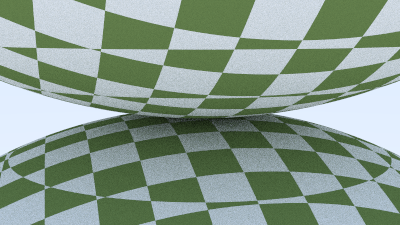
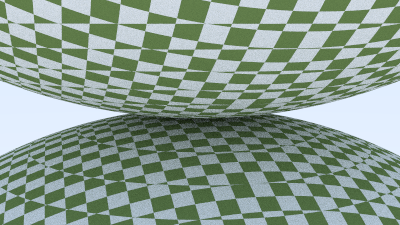
update

diff --git a/include/texture.h b/include/texture.h
@@ -28,10 +28,11 @@ class checker_texture : public texture {
     public:
         checker_texture(double _scale, shared_ptr<texture> _even, shared_ptr<texture> _odd)
             : inv_scale(1.0/_scale), even(_even), odd(_odd) {}
-        checker_texture(double _scale, color c1, color c2): inv_scale(1.0/_scale) {
-            even = make_shared<solid_color>(c1);
-            odd = make_shared<solid_color>(c2);
-        }
+        checker_texture(double _scale, color c1, color c2)
+            : inv_scale(1.0/_scale),
+            even(make_shared<solid_color>(c1)),
+            odd(make_shared<solid_color>(c2))
+        {}
 
         color value(double u, double v, const point3& p) const override {
             auto xFloor = static_cast<int>(std::floor(inv_scale * p.x()));

diff --git a/src/main.cc b/src/main.cc
@@ -91,7 +91,7 @@ void random_spheres() {
 void two_spheres() {
     hittable_list world;
 
-    auto checker = make_shared<checker_texture>(0.8, color(.2, .3, .1), color(.9, .9, .9));
+    auto checker = make_shared<checker_texture>(0.32, color(.2, .3, .1), color(.9, .9, .9));
 
     world.add(make_shared<sphere>(point3(0,-10, 0), 10, make_shared<lambertian>(checker)));
     world.add(make_shared<sphere>(point3(0, 10, 0), 10, make_shared<lambertian>(checker)));
@@ -115,7 +115,7 @@ void two_spheres() {
 
 
 int main() {
-    switch (1) {
+    switch (2) {
         case 1: random_spheres(); break;
         case 2: two_spheres();    break;
     }
